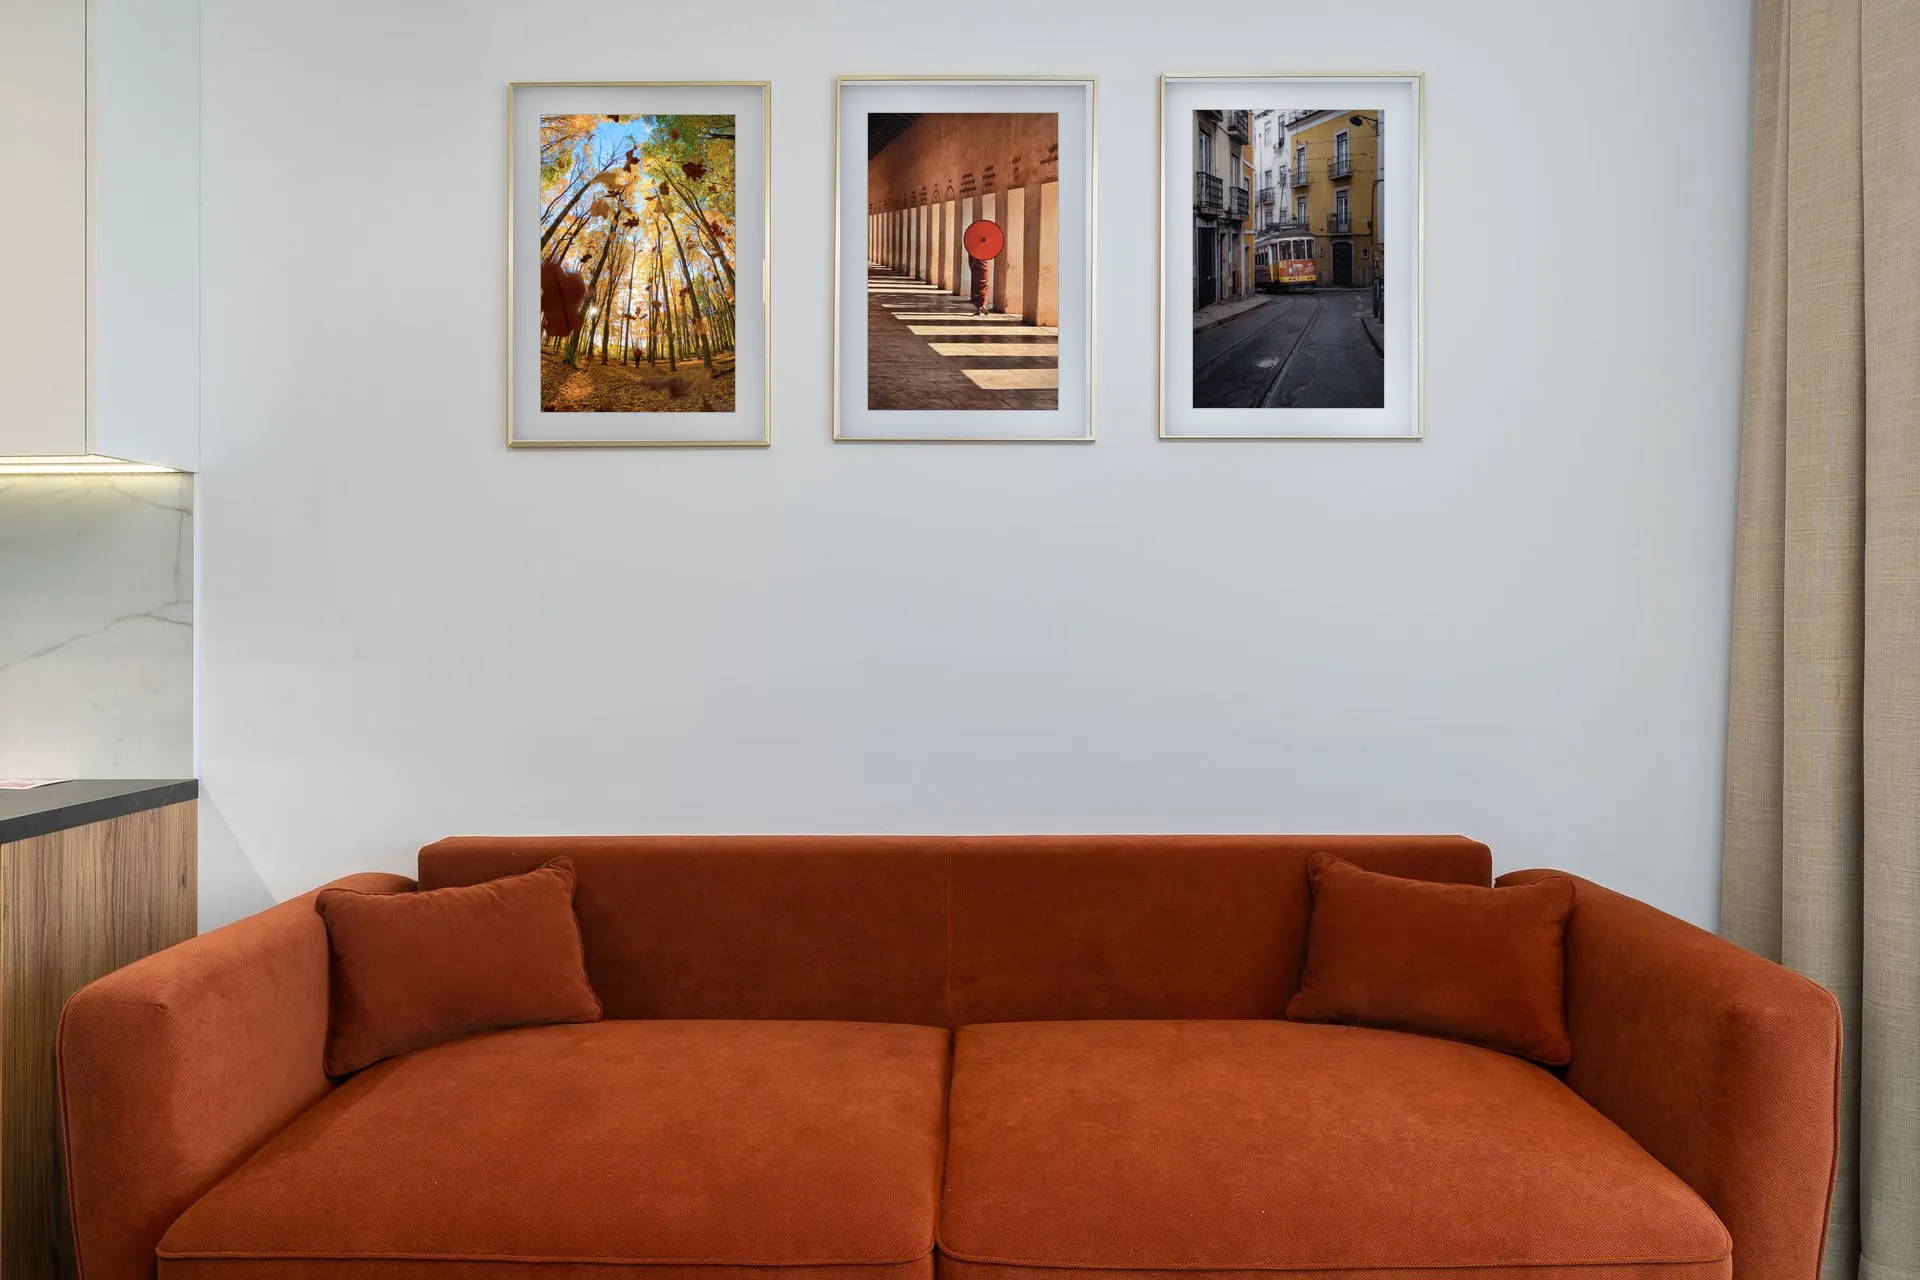
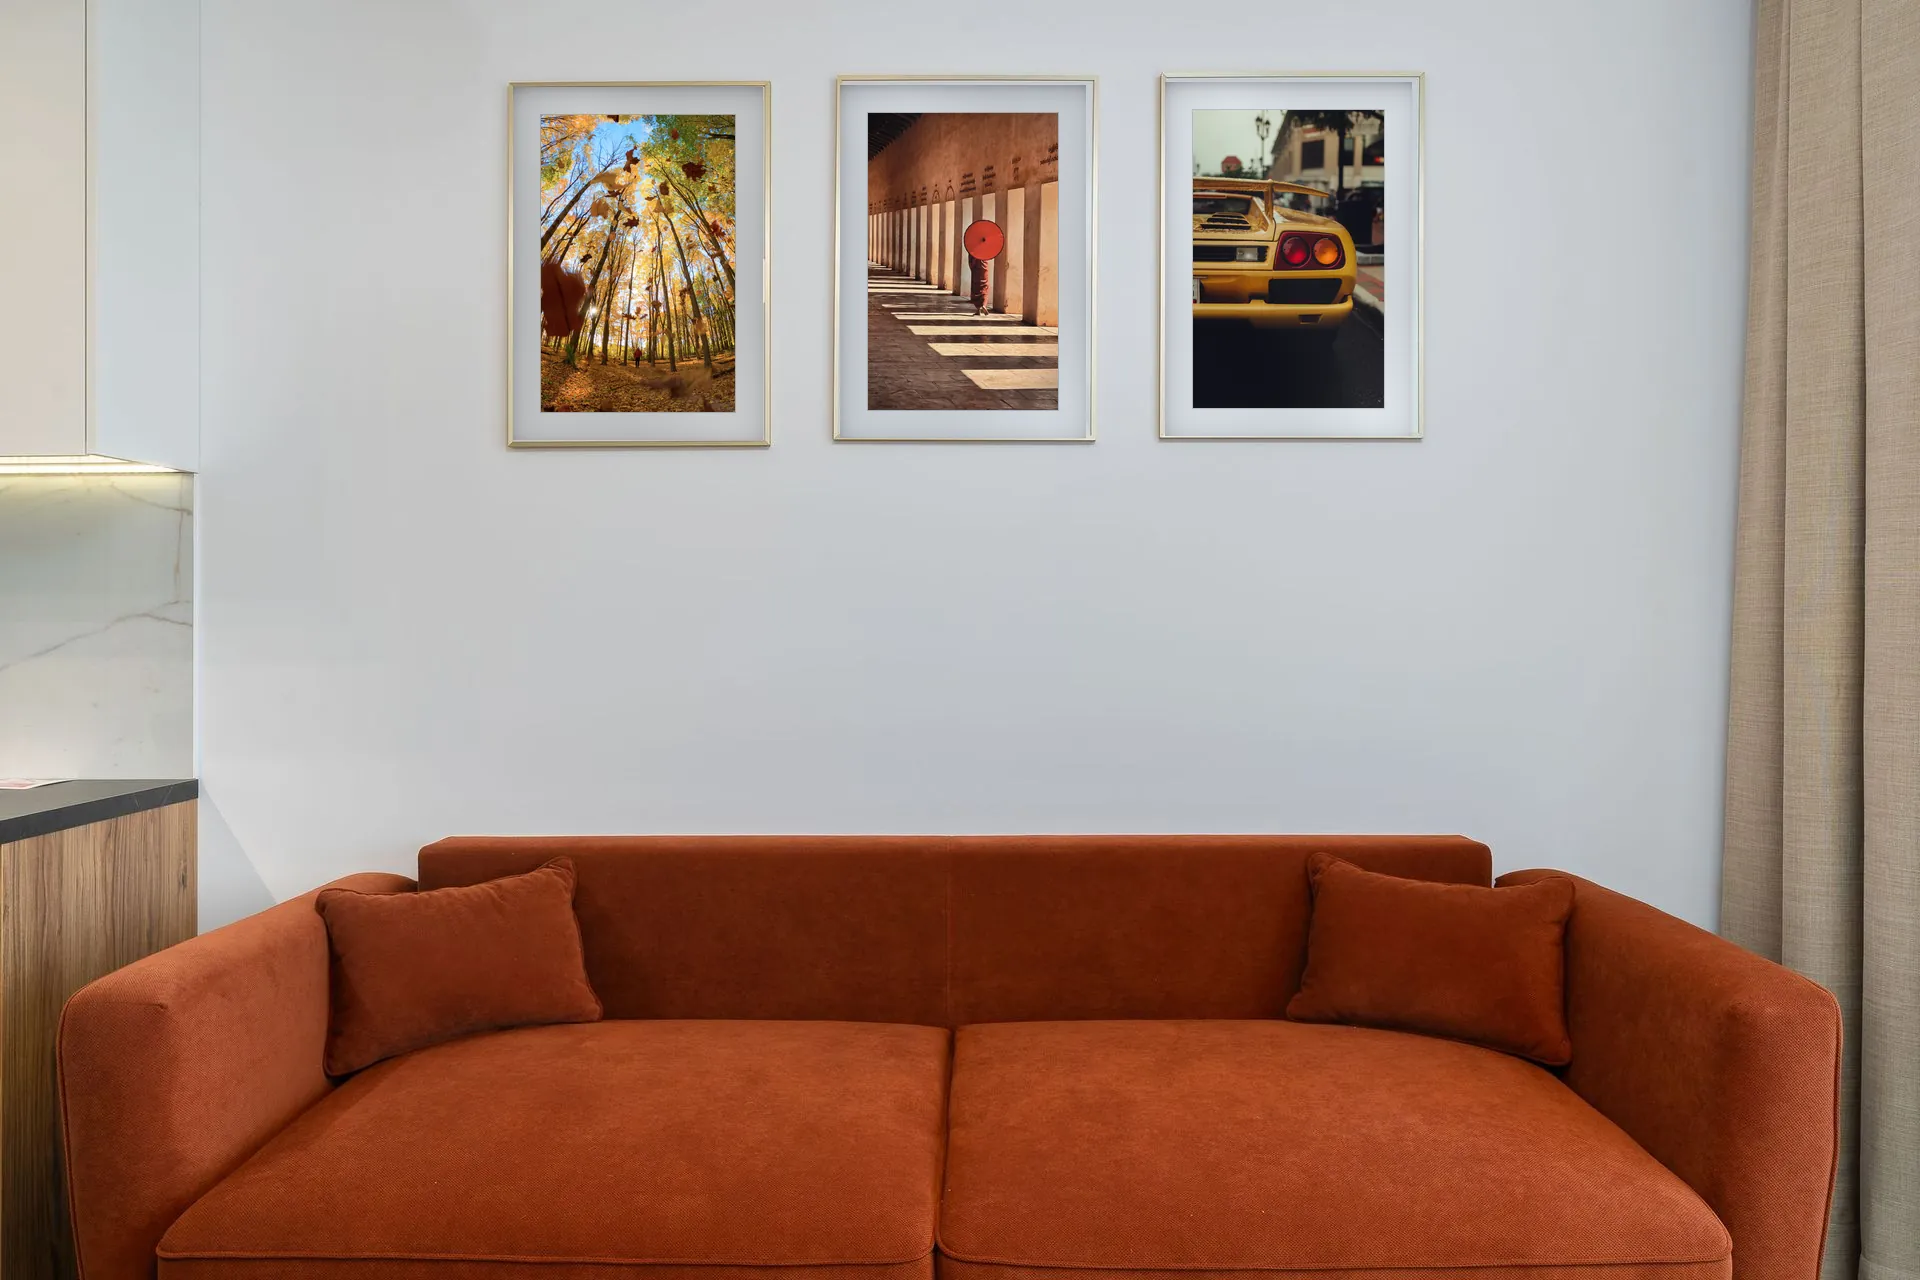
Hero: yellow sports car in the third frame (replaces Yellow Tram Street)

Changed region(s): [[0.5938, 0.0625, 0.7188, 0.3438]]

diff --git a/tools/hero_composite.py b/tools/hero_composite.py
@@ -1,0 +1,45 @@
+"""Composite three Hanga prints into the framed trio of the homepage hero photo.
+Source: git show e66d8ac:images/hero-bg.jpg (original stock wall photo)."""
+import sys, subprocess, io
+import numpy as np
+from PIL import Image, ImageFilter, ImageOps, ImageDraw
+REPO='/workspace/hanga-wall-frames'
+base=Image.open(io.BytesIO(subprocess.check_output(['git','-C',REPO,'show','e66d8ac:images/hero-bg.jpg']))).convert('RGB')
+W,H=base.size
+# inner edges of the three gold frames (full-res px), measured from the photo
+FRAMES=[(513,87,763,440),(840,85,1086,438),(1165,82,1412,436)]
+ARTS=sys.argv[1:4]
+out=base.copy()
+for (x0,y0,x1,y1),src in zip(FRAMES,ARTS):
+    fw,fh=x1-x0,y1-y0
+    # mat: colour sampled from the original mat strip just inside the frame
+    strip=np.asarray(base.crop((x0+4,y0+60,x0+18,y1-60))).reshape(-1,3)
+    matc=tuple(int(v) for v in np.median(strip,0))
+    mat=Image.new('RGB',(fw,fh),matc)
+    # carry over the photo's soft lighting falloff across the mat (low-frequency)
+    light=base.crop((x0,y0,x1,y1)).convert('L').resize((4,4)).resize((fw,fh),Image.BICUBIC)
+    lightarr=np.asarray(light).astype(float); lightarr=lightarr/np.median(lightarr)
+    lightarr=0.85+0.15*np.clip(lightarr,0.85,1.15)  # gentle
+    m=28  # mat margin, same as the original prints
+    aw,ah=fw-2*m,fh-2*m
+    # optional crop focus: path@cx,cy (0..1), e.g. car.jpg@0.5,0.3
+    cen=(0.5,0.5)
+    if '@' in src: src,c=src.rsplit('@',1); cen=tuple(float(v) for v in c.split(','))
+    art=ImageOps.fit(Image.open(src).convert('RGB'),(aw,ah),Image.LANCZOS,centering=cen)
+    mat.paste(art,(m,m))
+    # thin bevel line around the art window
+    d=ImageDraw.Draw(mat); d.rectangle((m-1,m-1,m+aw,m+ah),outline=tuple(max(0,c-35) for c in matc))
+    arr=np.asarray(mat).astype(float)*lightarr[...,None]
+    # inner shadow cast by the frame (top + left stronger, like the room light)
+    yy,xx=np.mgrid[0:fh,0:fw]
+    sh=np.ones((fh,fw))
+    sh*=1-0.22*np.exp(-yy/9.0)-0.14*np.exp(-xx/9.0)-0.08*np.exp(-(fw-1-xx)/7.0)-0.08*np.exp(-(fh-1-yy)/7.0)
+    arr*=sh[...,None]
+    # faint glass sheen: diagonal highlight
+    sheen=np.clip(1-np.abs((xx/fw)-(yy/fh)*0.6-0.25)*3,0,1)*10
+    arr=np.clip(arr+sheen[...,None],0,255).astype('uint8')
+    out.paste(Image.fromarray(arr),(x0,y0))
+out.save(REPO+'/images/hero-bg.jpg',quality=82,optimize=True,progressive=True)
+out.save(REPO+'/images/hero-bg.webp',quality=80,method=6)
+out.resize((960,640),Image.LANCZOS).save(REPO+'/images/hero-bg-960.webp',quality=78,method=6)
+print('ok')
